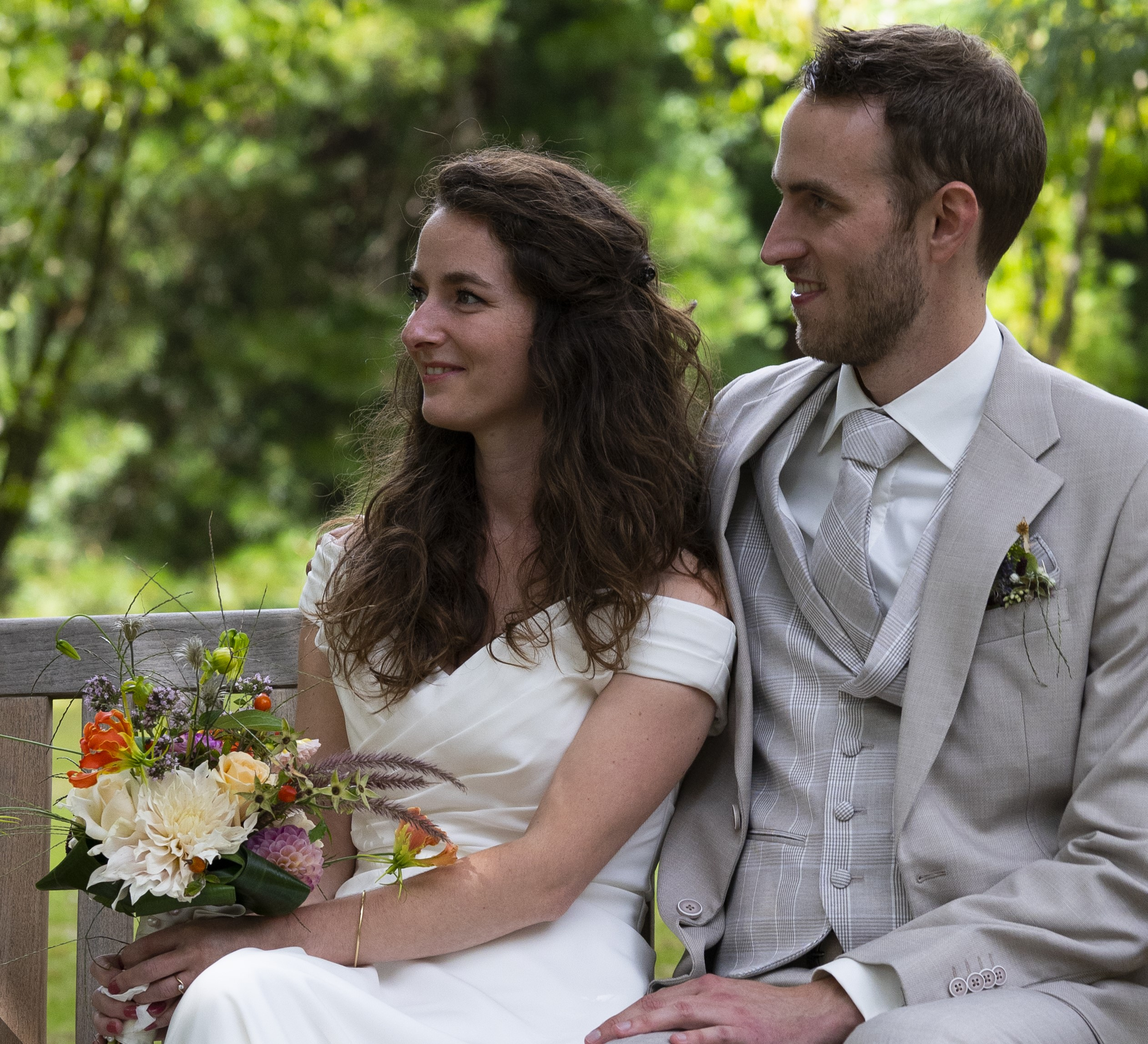
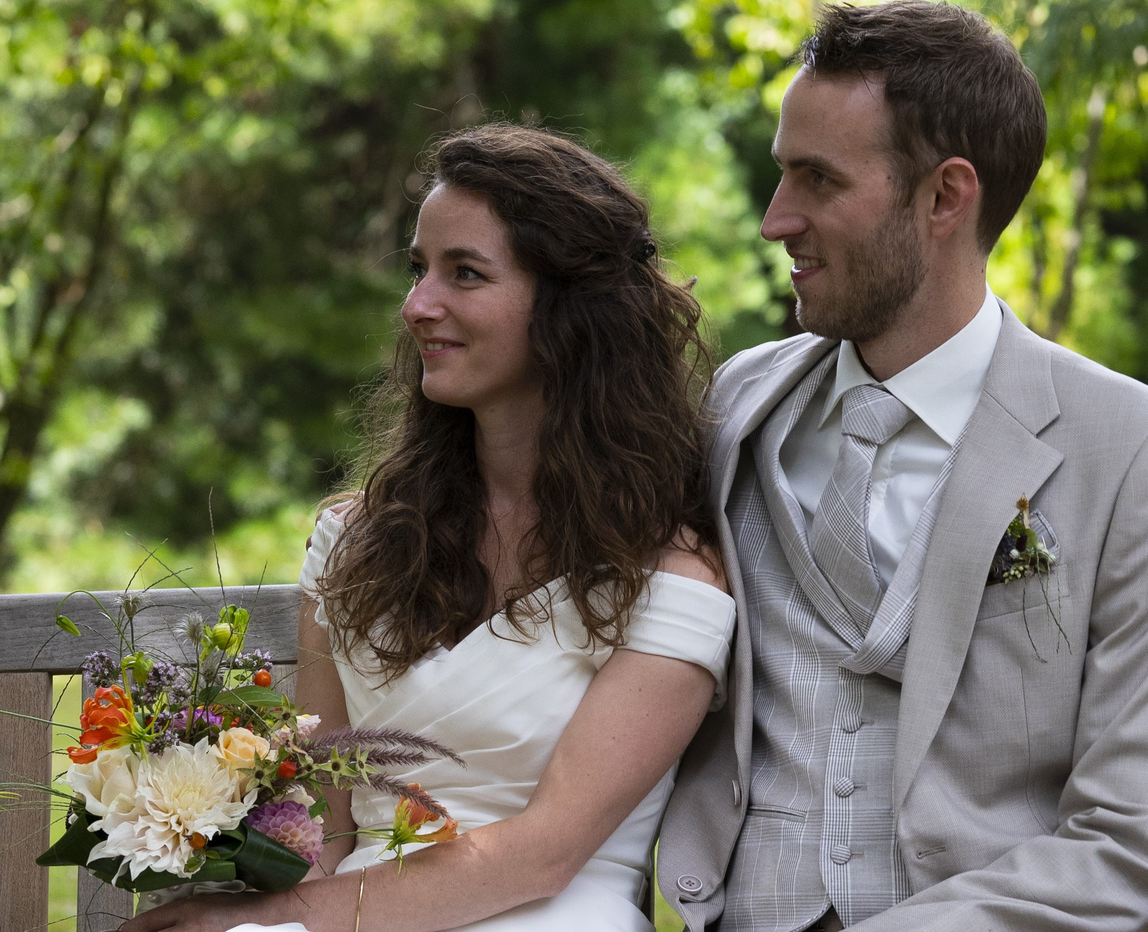
Update from Forestry.io rosavagant deleted exampleSite/static/images/141132_crop.jpg rosavagant updated exampleSite/content/post/post-6.md rosavagant created exampleSite/static/images/141132_crop.jpg

diff --git a/exampleSite/content/post/post-6.md b/exampleSite/content/post/post-6.md
@@ -1,11 +1,10 @@
 ---
 title: 3.   Uploads - Téléchargements
-image: "/images/141132_crop.jpg"
+image: "/images/150857-1.jpg"
 description: You're invited!
 gallery:
 - "/images/150857-1.jpg"
 - "/images/161107.jpg"
-- "/images/141929.jpg"
 - "/images/141132.jpg"
 - "/images/141654.jpg"
 - "/images/140157.jpg"
@@ -41,5 +40,3 @@ Sommige foto's waren gewoon té leuk van jullie, en daarom kunnen sommigen van j
 ***
 
 C'est l'heure. Notre belle journée est terminée. Pour pouvoir profiter de la merveilleuse ambiance de cette journée, nous avons sélectionné pour vous quelques photos. Certains d'entre eux seront utilisés par le photographe [**Picture2Perfect**](https://picture2perfect.nl/) Bob sur son site Web dans son portfolio.
-
-\[object HTMLLIElement\]
